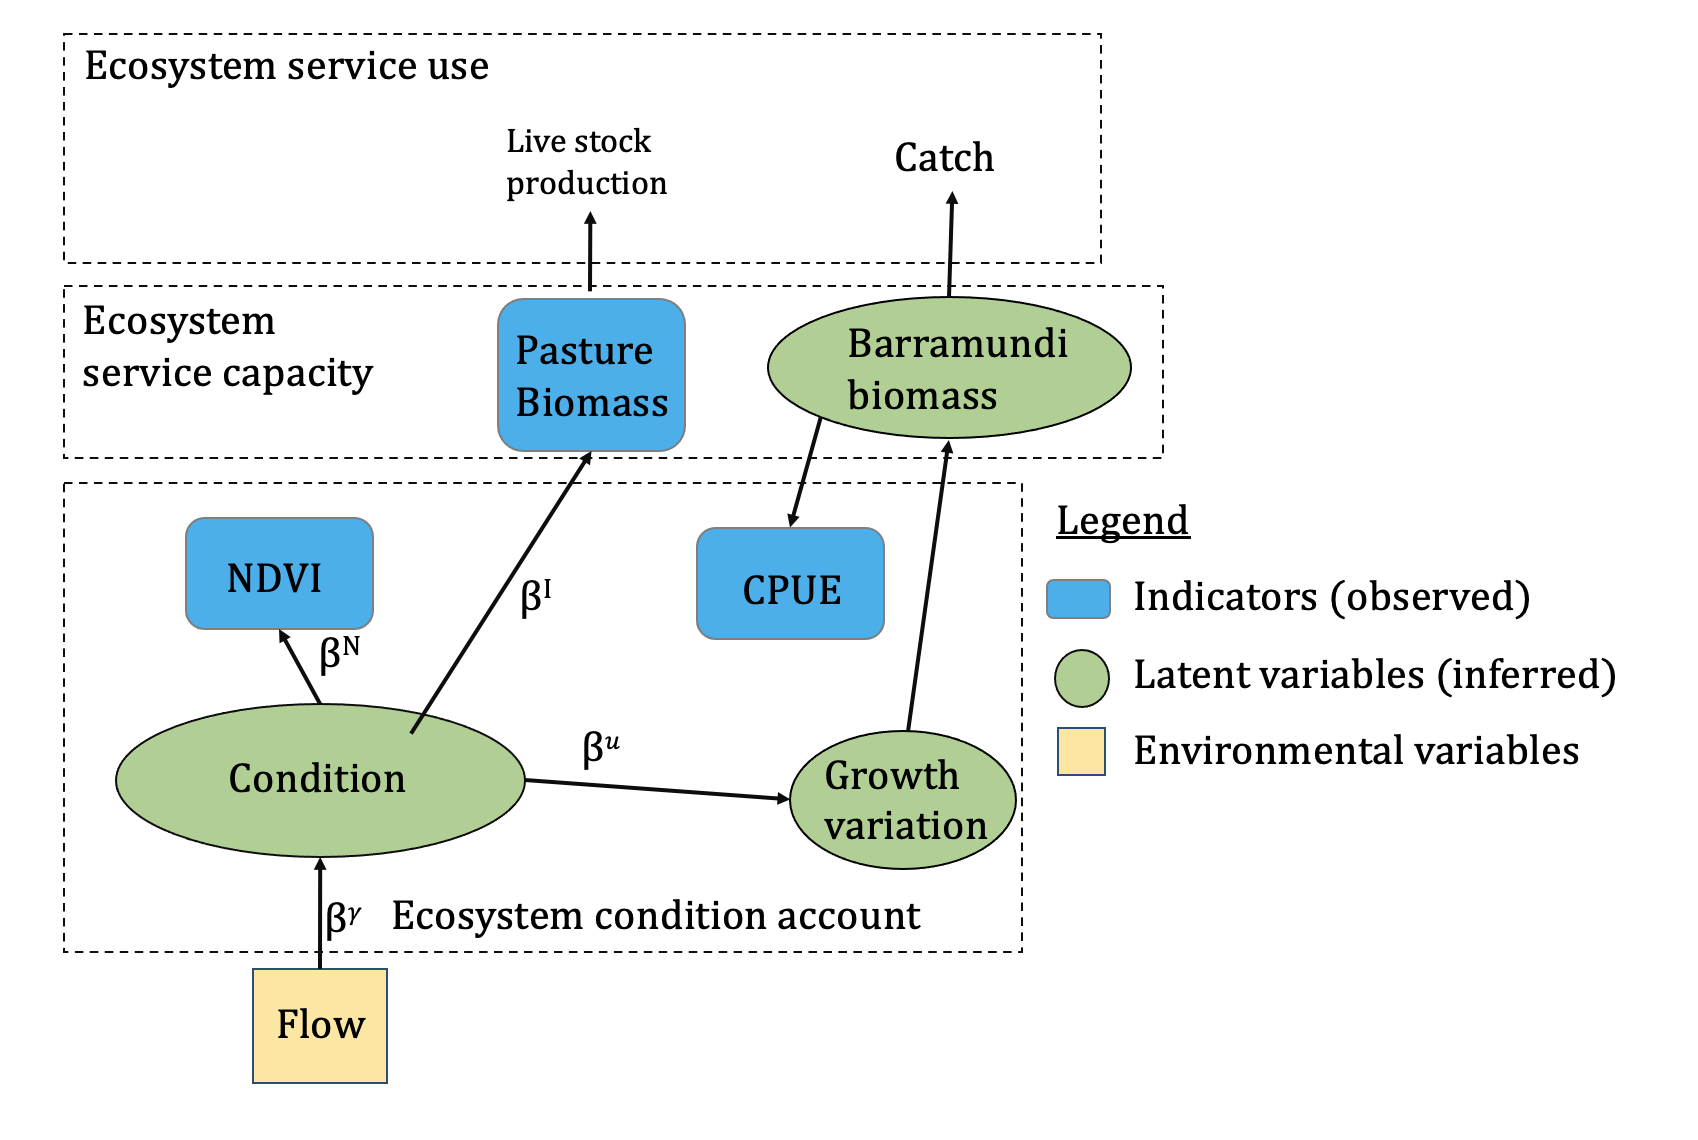
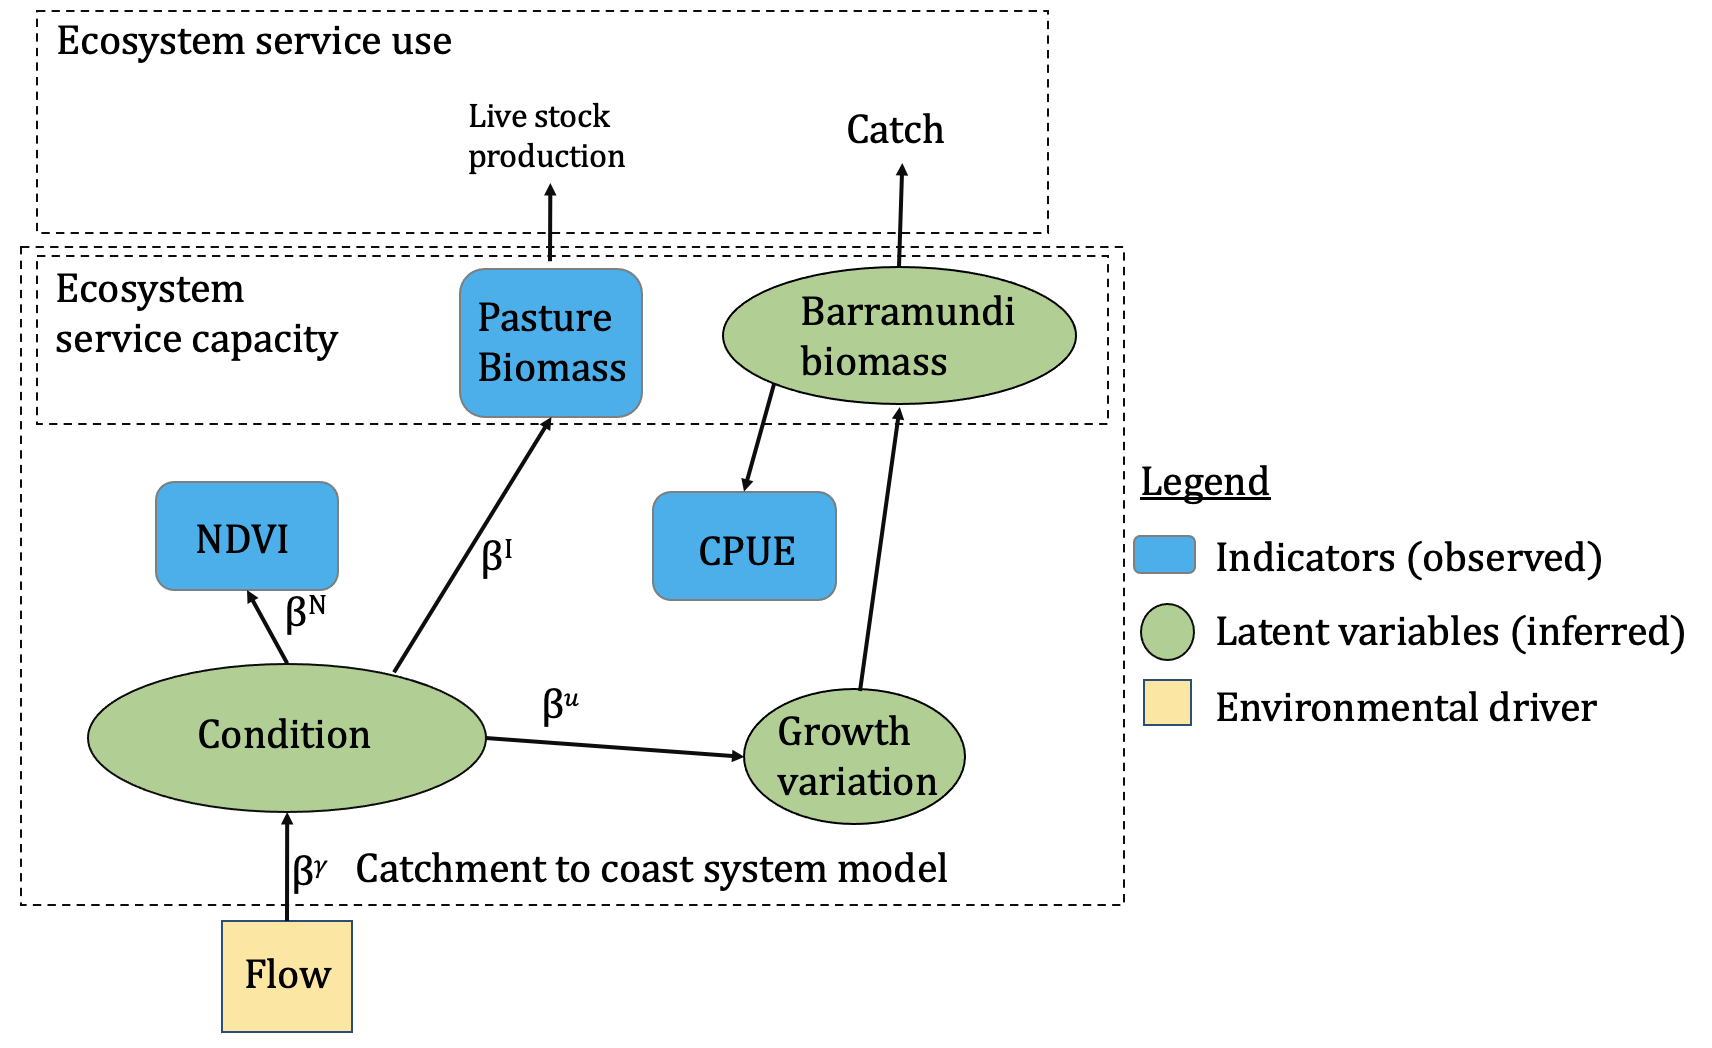
update plots

Changed region(s): [[0.0312, 0.0916, 0.9988, 1.0], [0.0312, 0.0, 0.2809, 0.0916]]

diff --git a/readme.md b/readme.md
@@ -1,4 +1,4 @@
-# Code to support "Detecting change in interconnected ecosystem assets to inform indicators of condition in environmental economic accounts"
+# Code to support "Ecosystem services in connected catchment to coast ecosystems: monitoring to detect emerging trends"
 
 Christopher J. Brown et al.
 Contact: chris.brown@griffith.edu.au
